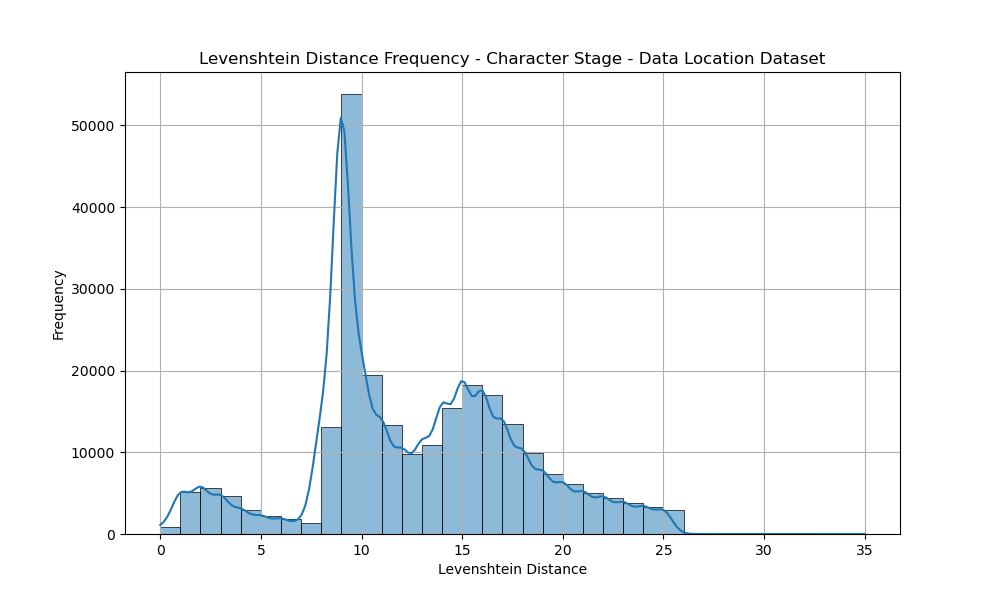
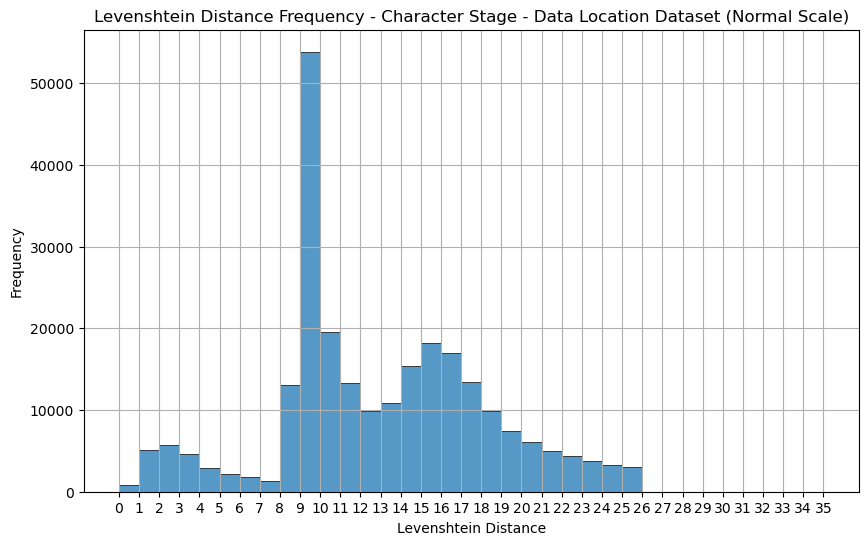
Refined pi chart and histograms

diff --git a/scripts/calculate_metrics.py b/scripts/calculate_metrics.py
@@ -10,6 +10,9 @@ import seaborn as sns
 # Removing deprecation warning
 warnings.filterwarnings("ignore", category=Warning, module="pandas")
 
+# Define some printable values
+printable_style = {'age': 'Age Dataset', 'data_loc': 'Data Location Dataset'}
+
 def round_to_nearest_sig(x):
     """
     Rounds a number to the nearest significant figure.
@@ -424,22 +427,83 @@ def plot_validation_pie_charts(data, style):
         plt.savefig(f'{style}/analysis/figures/validation_pie_{stage}.png')
         plt.close()
 
+# Updated function to create two versions of histograms: one with log-scaled y-axis and one without
 def plot_levenshtein_histogram(data, style):
     '''
     Histogram of Levenshtein distance scores at character and word stages.
     '''
     stages = ['char_distance_score', 'word_distance_score']
     labels = ['Character Stage', 'Word Stage']
-    printable_style = {'age': 'Age Dataset', 'data_loc': 'Data Location Dataset'}
+    output_file_normal = f'{style}/analysis/figures/levenshtein_hist_{{}}.png'
+    output_file_log = f'{style}/analysis/figures/levenshtein_hist_{{}}_log.png'
+
     for stage, label in zip(stages, labels):
+        # Plot histogram with normal y-axis
         plt.figure(figsize=(10, 6))
-        sns.histplot(data[stage], binwidth=1, kde=True, edgecolor='black', linewidth=0.5)
-        plt.title(f'Levenshtein Distance Frequency - {label} - {printable_style[style]}')
+        sns.histplot(data[stage], binwidth=1, kde=False, edgecolor='black', linewidth=0.5)
+        plt.title(f'Levenshtein Distance Frequency - {label} - {printable_style[style]} (Normal Scale)')
         plt.xlabel('Levenshtein Distance')
         plt.ylabel('Frequency')
         plt.grid(True)
-        plt.savefig(f'{style}/analysis/figures/levenshtein_hist_{stage}.png')
+        plt.xticks(range(int(data[stage].min()), int(data[stage].max()) + 1))
+        plt.savefig(output_file_normal.format(stage), bbox_inches='tight')
         plt.close()
+
+        # Plot histogram with log-scaled y-axis
+        plt.figure(figsize=(10, 6))
+        sns.histplot(data[stage], binwidth=1, kde=False, edgecolor='black', linewidth=0.5)
+        plt.title(f'Levenshtein Distance Frequency - {label} - {printable_style[style]} (Log Scale)')
+        plt.xlabel('Levenshtein Distance')
+        plt.ylabel('Frequency (Log Scale)')
+        plt.yscale('log')
+        plt.grid(True, which="both", linestyle='--', linewidth=0.5)
+        plt.xticks(range(int(data[stage].min()), int(data[stage].max()) + 1))
+        plt.savefig(output_file_log.format(stage), bbox_inches='tight')
+        plt.close()
+
+    print(f"Levenshtein distance histograms saved to {output_file_normal.format('char')}, {output_file_log.format('char')}, "
+          f"{output_file_normal.format('word')}, and {output_file_log.format('word')}")
+
+# Updated function to adjust spacing and reformat subplot labels
+def plot_combined_validation_pie_charts(data, style):
+    """
+    Create a single figure with three pie charts for character, word, and phrase validation results.
+    """
+    validations = {
+        "Character Validation": "char_validation",
+        "Word Validation": "word_validation",
+        "Phrase Validation": "phrase_validation"
+    }
+
+    # Create a figure with three subplots (1 row, 3 columns)
+    fig, axes = plt.subplots(1, 3, figsize=(20, 8))  # Increased figure size to prevent cropping
+
+    labels = ['a', 'b', 'c']
+
+    for ax, (label, (title, column)) in zip(axes, zip(labels, validations.items())):
+        # Get counts for "pass" and "fail" (combine "stopped" and "fail" as "fail")
+        counts = data[column].replace({"stopped": "fail", "fail": "fail"}).value_counts()
+
+        # Reindex to ensure both "pass" and "fail" are present, fill missing with 0
+        counts = counts.reindex(["pass", "fail"], fill_value=0)
+
+        # Plot pie chart
+        ax.pie(counts, labels=counts.index, autopct='%1.1f%%', startangle=90, colors=['#4CAF50', '#F44336'])
+        ax.set_title(title, fontsize=14, pad=10)  # Keep subtitle centered and add padding
+
+        # Add subplot label in the top left corner
+        ax.text(-1.6, 1.5, f"{label})", fontsize=16, fontweight='bold', va='top', ha='left')
+
+    # Adjust layout to reduce space between the main title and the individual subplots
+    plt.subplots_adjust(top=0.85, wspace=0.3, hspace=0.1)
+    plt.suptitle(f"Validation Results - {printable_style[style]}", fontsize=18, y=0.92)
+
+    # Save the combined figure in the output directory
+    output_file = f"{style}/analysis/figures/{style}_combined_validation_pie_charts.png"
+    plt.savefig(output_file, bbox_inches='tight')
+    plt.close()
+
+    print(f"Combined validation pie charts saved to {output_file}")
 
 def generate_additional_figures(input_file, style):
     '''
@@ -452,8 +516,8 @@ def generate_additional_figures(input_file, style):
         plot_scatter_phrase_count_vs_validity(data, style)
         plot_scatter_phrase_count_vs_validity(data, style, exclude_urls=True)
 
-    # Generate validation pie charts
-    plot_validation_pie_charts(data, style)
+    # Generate validation pie chart
+    plot_combined_validation_pie_charts(data, style)
 
     # Generate Levenshtein distance histograms
     plot_levenshtein_histogram(data, style)
